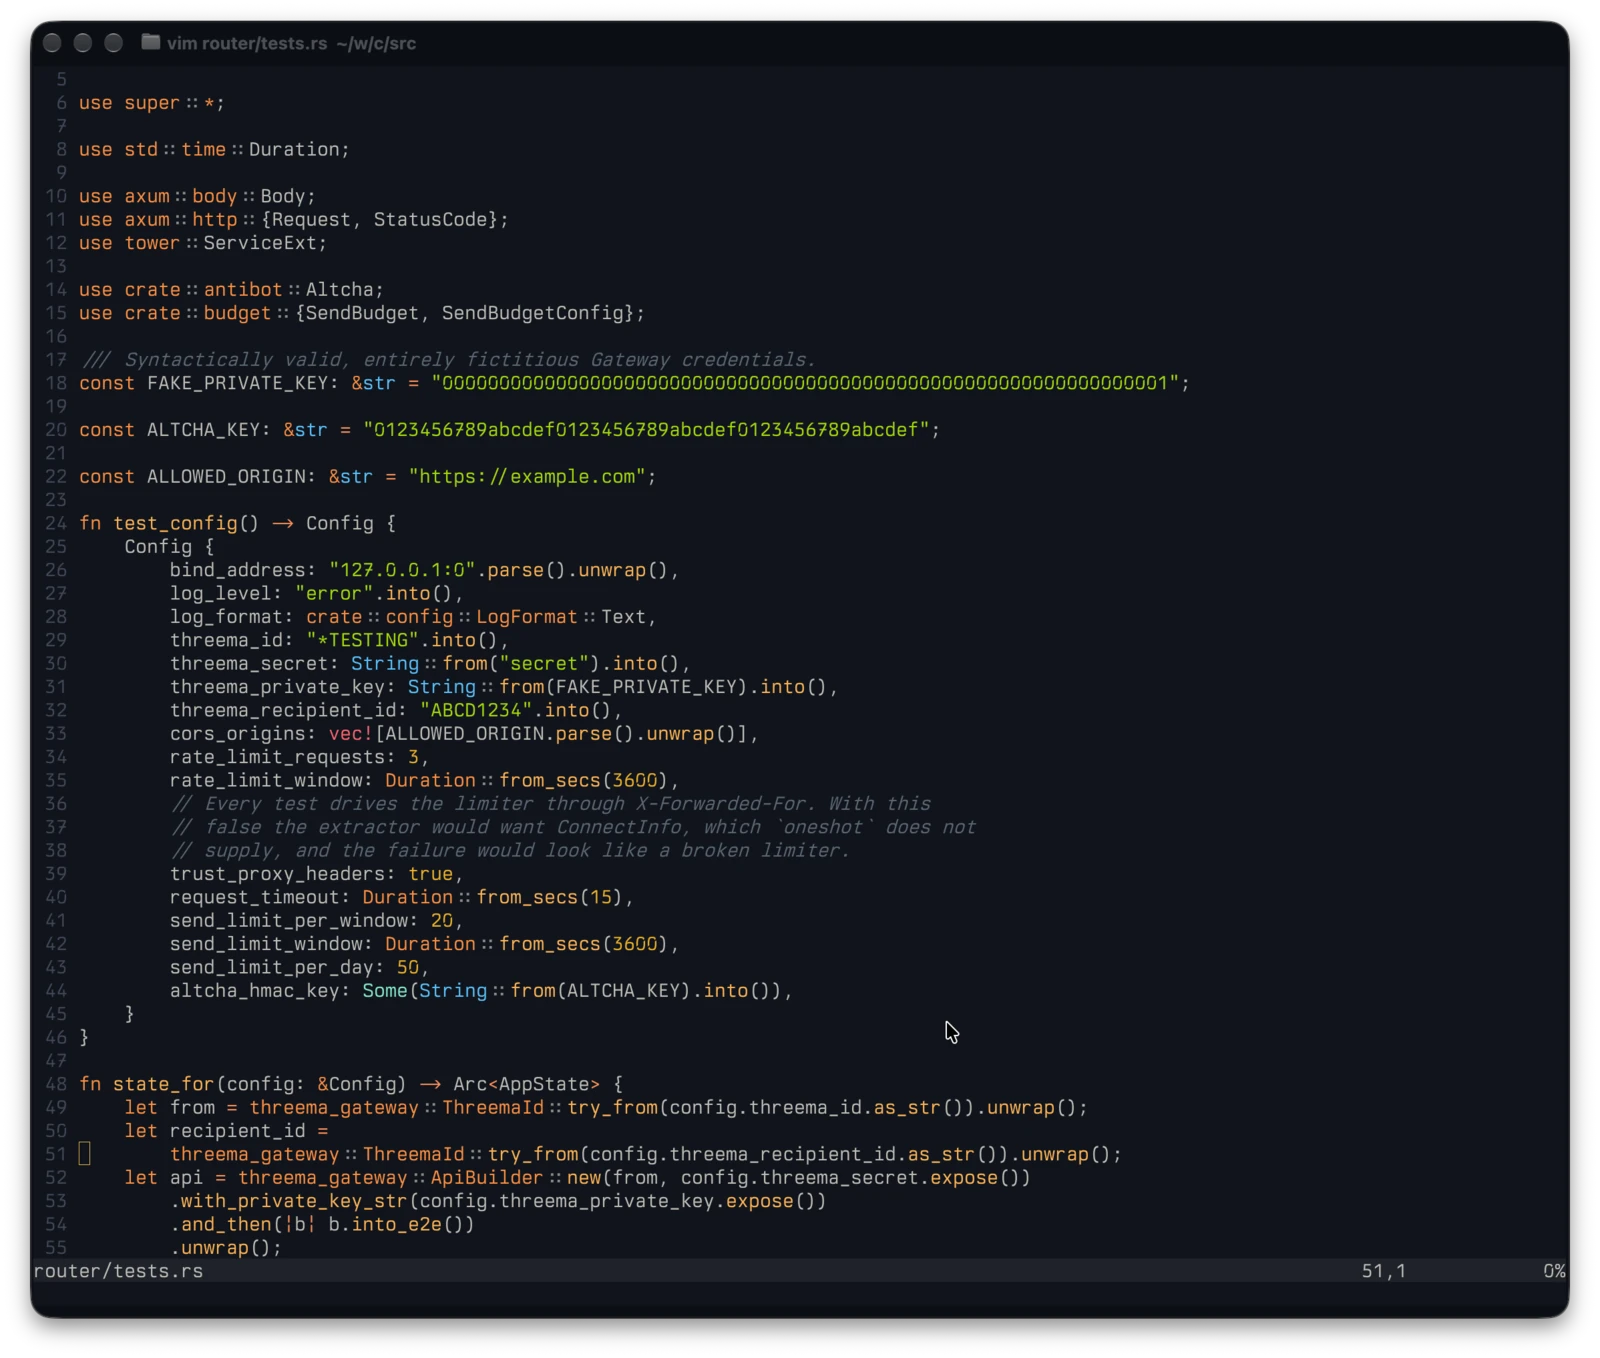
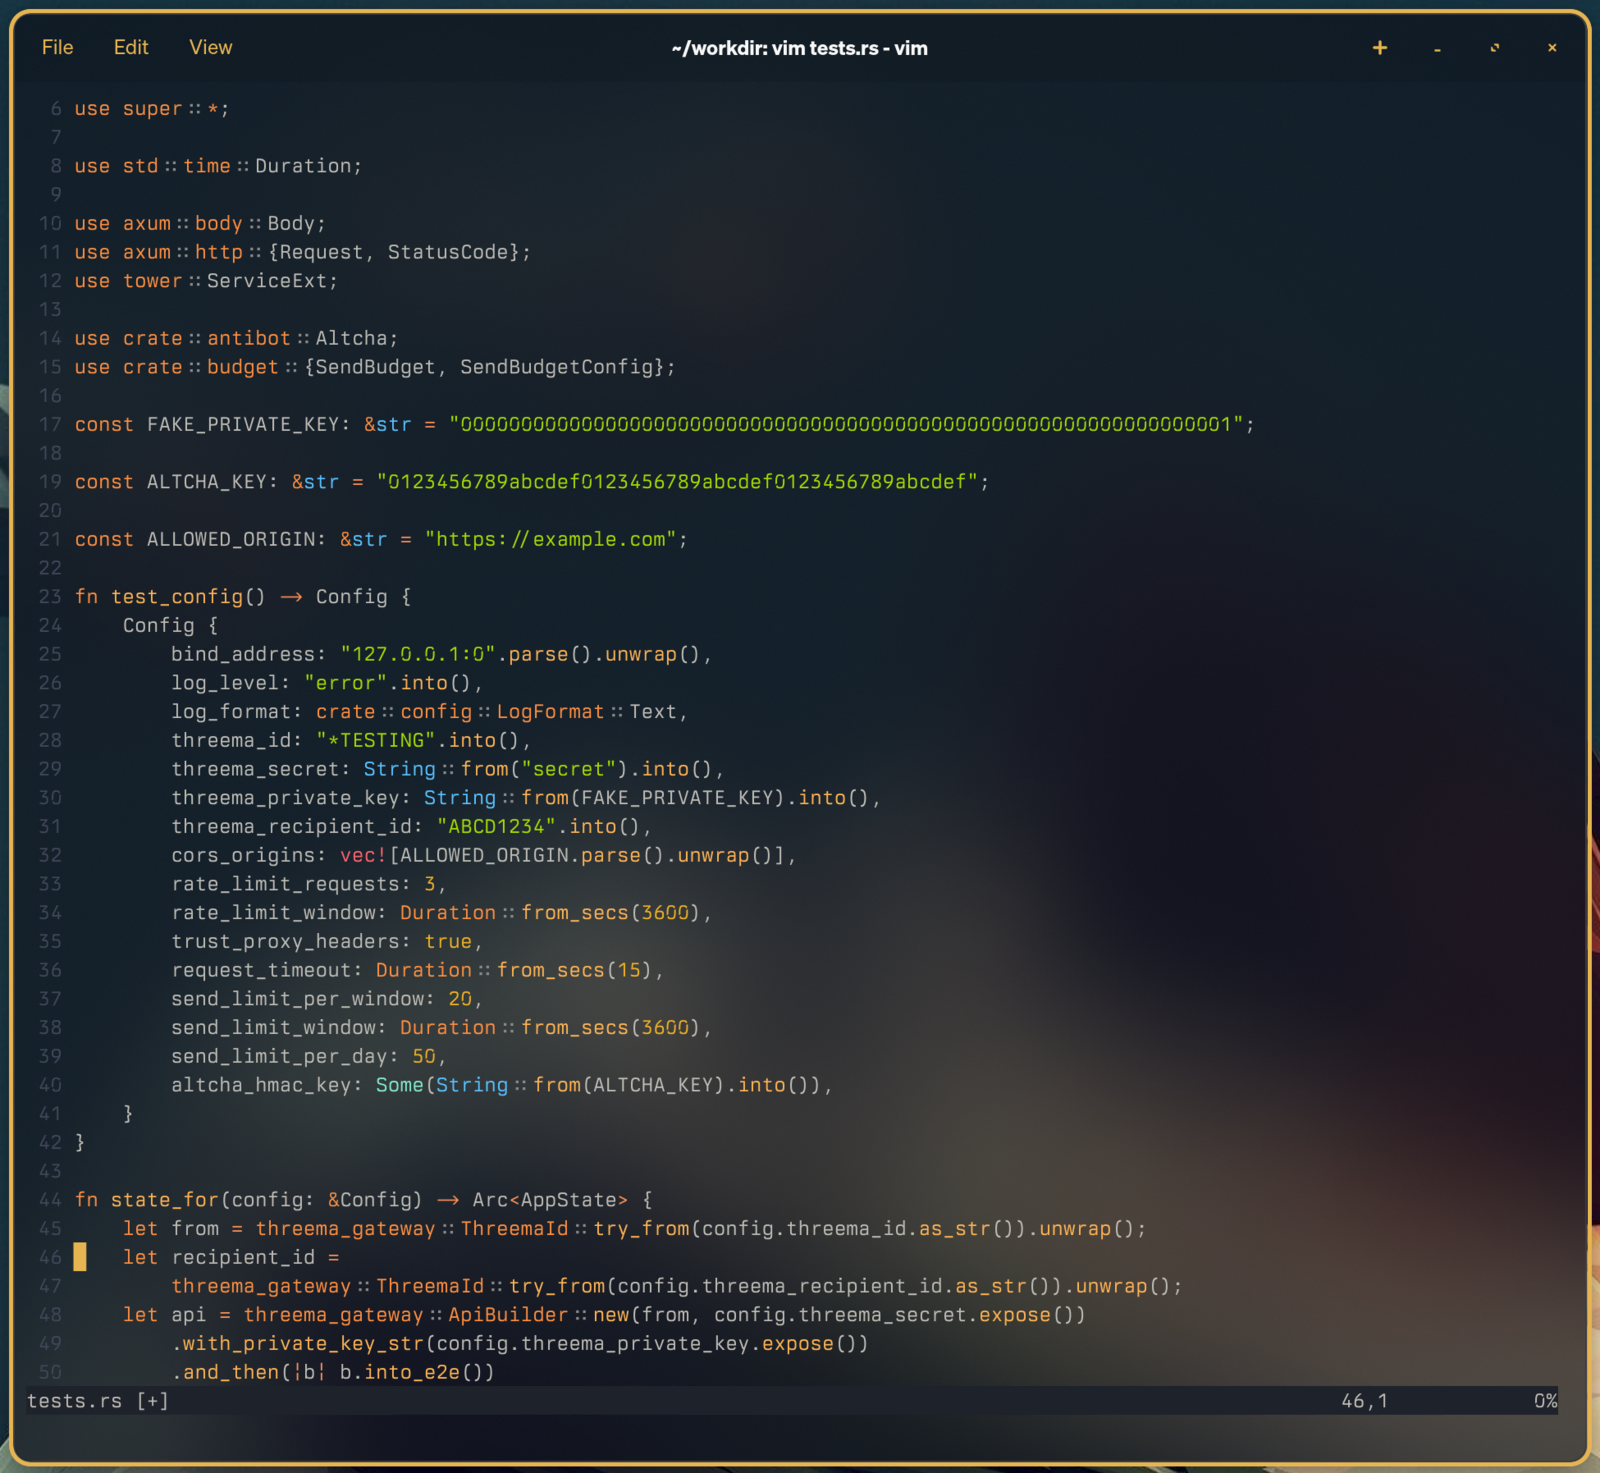
README: Vim screenshot from COSMIC; lossless screenshots; Linux 'Profile Directory' label

diff --git a/README.md b/README.md
@@ -119,7 +119,7 @@ The terminal colors are the same values the Zed theme uses.
 Copy `vim/ayu-vivid-dark.vim` to `~/.vim/colors/` (Vim) or `~/.config/nvim/colors/` (Neovim), then run
 `:colorscheme ayu-vivid-dark`. It uses truecolor and falls back to the nearest 256 colors.
 
-![Vim with ayu Vivid Dark, editing Rust](docs/screenshots/vim.webp)
+![Vim with ayu Vivid Dark in COSMIC Terminal, editing Rust](docs/screenshots/vim.webp)
 
 ## Zed
 
